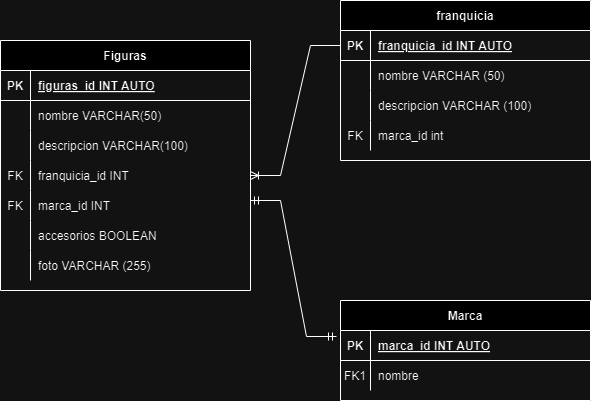
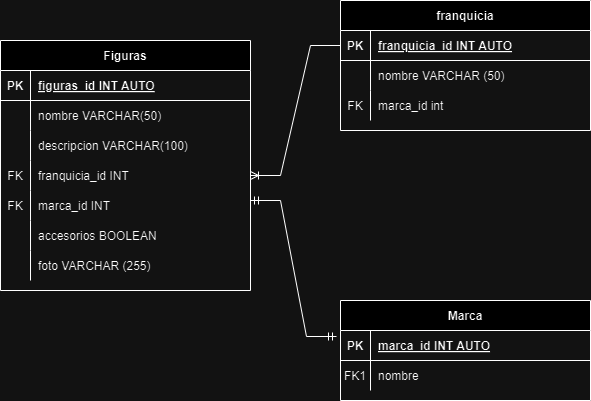
Update Figuras

diff --git a/Hobby/Figuras_LogicaNegocio.md b/Hobby/Figuras_LogicaNegocio.md
@@ -15,13 +15,11 @@
 ### franquicias **(EC)**
 - franquicia_id **(PK)**
 - nombre
-- descripcion
 
-### marca **(EC)**
+### marcas **(EC)**
 
 - marca_id **(PK)**
 - nombre
-- descripcion
 
 ## Relaciones
 
